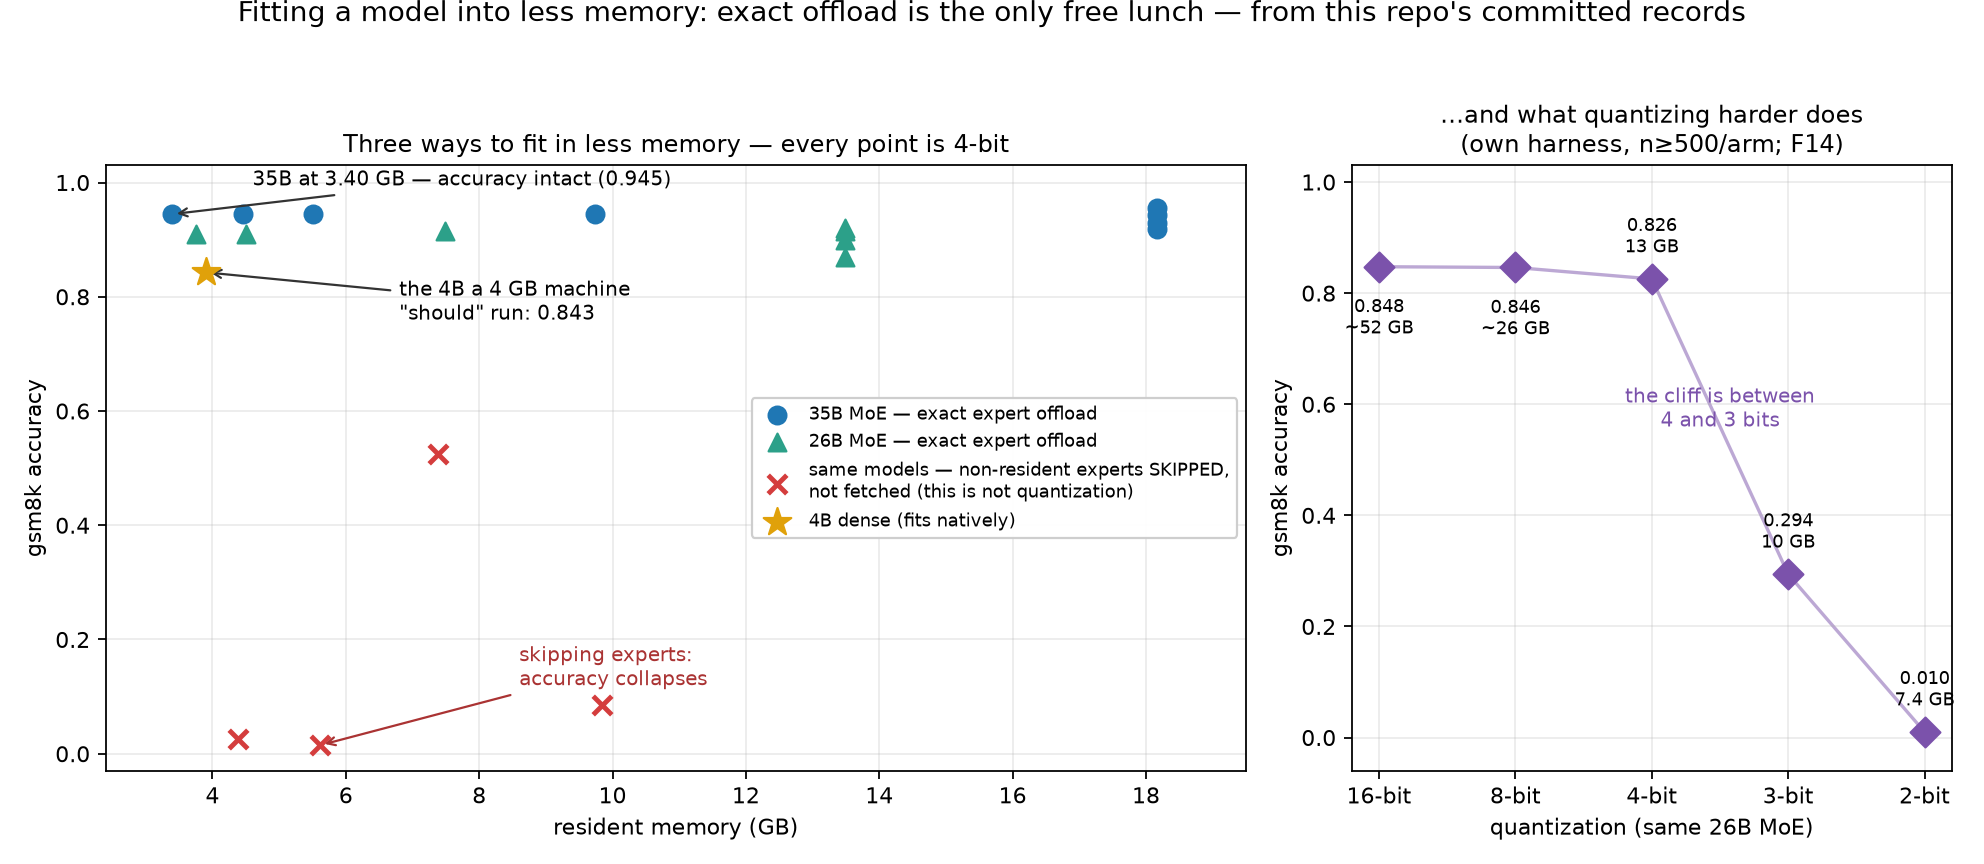
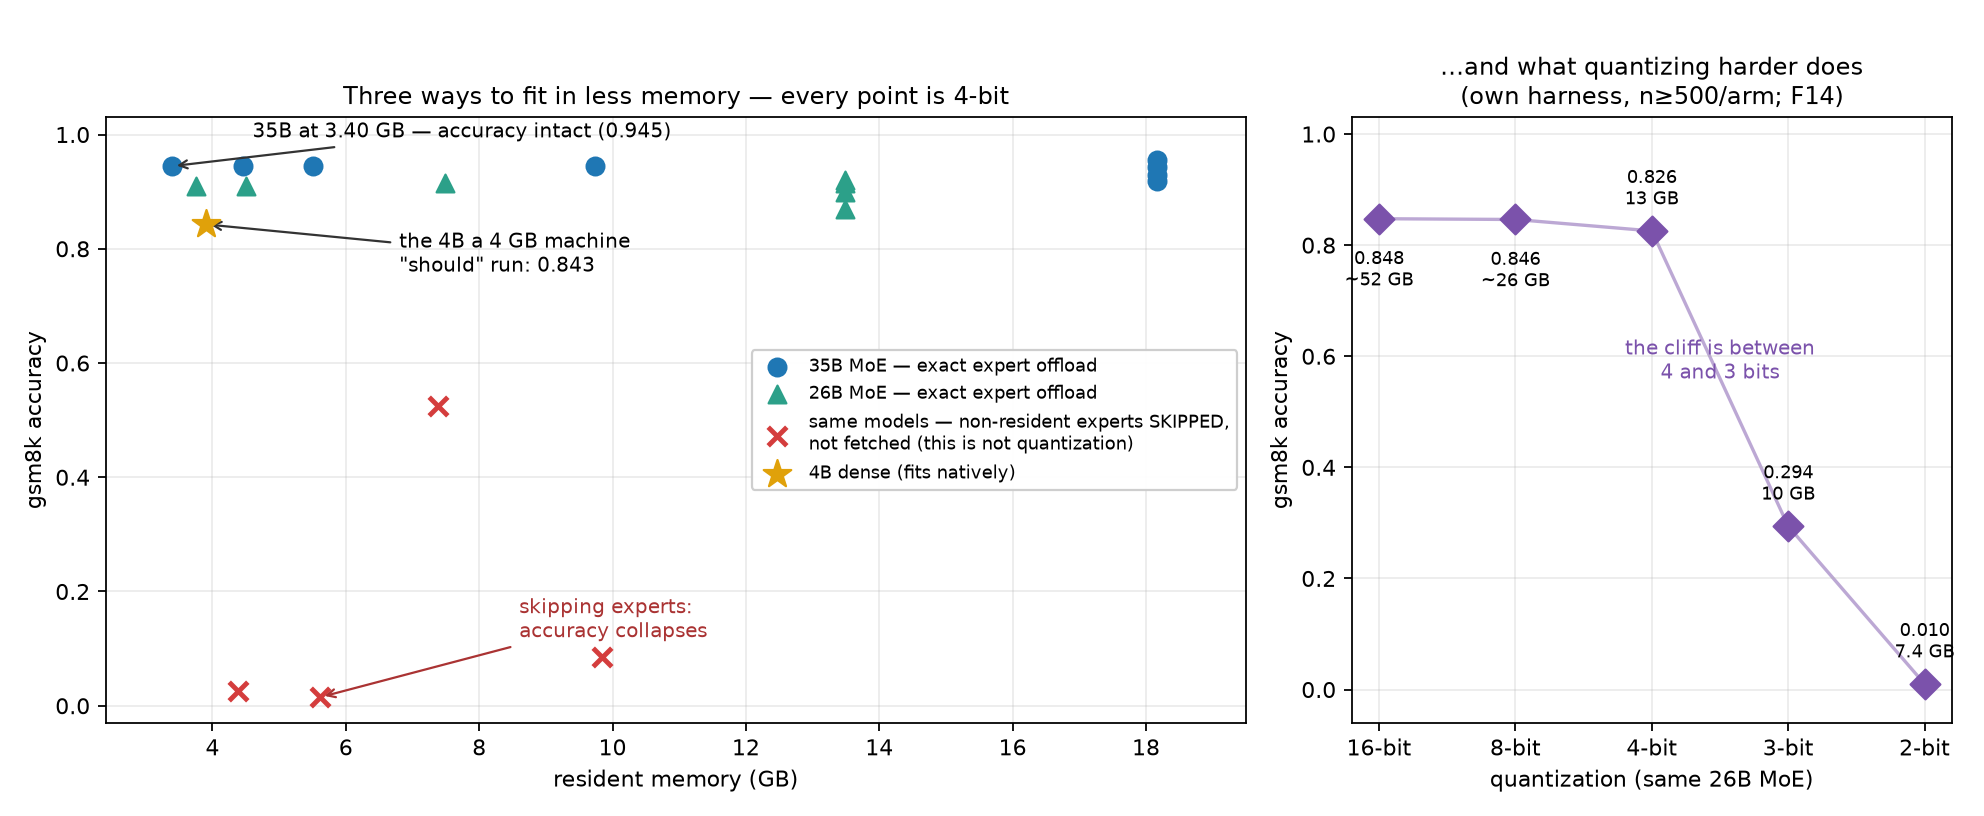
docs: descriptive card provenance ids, chart title trimmed
Card rows identify their source cell by task, strategy, and cap instead of
an opaque id, and the sources line in `clausius plan` names the kind of run.
The README no longer links to a planning file. The frontier chart's outer title is removed;
the panel titles carry the content. Test fixtures renamed to match.

diff --git a/tests/test_measure_cards.py b/tests/test_measure_cards.py
@@ -10,11 +10,11 @@ def _manifest(path, n, correct_n, truncated_n):
 
 
 def test_row_reduces_the_manifest(tmp_path):
-    m = tmp_path / "s0sig-math.jsonl"; _manifest(m, 20, 15, 4)
+    m = tmp_path / "greedy-math-2048.jsonl"; _manifest(m, 20, 15, 4)
     r = row_from_manifest(m, model="m", task="math500-l5", strategy="greedy", cap=2048, program="t")
     assert r["n"] == 20 and r["accuracy"] == 0.75 and r["truncation"] == 0.2
     lo, hi = r["ci95"]; assert lo < 0.75 < hi
-    assert r["wall_s"] == 19.5 and r["tokens_out"] == 110 and r["source"]["cell"] == "s0sig-math"
+    assert r["wall_s"] == 19.5 and r["tokens_out"] == 110 and r["source"]["cell"] == "greedy-math-2048"
 
 
 def test_partial_cells_are_not_rows(tmp_path):
@@ -25,7 +25,7 @@ def test_partial_cells_are_not_rows(tmp_path):
 
 
 def test_rows_from_dir_uses_the_decoder(tmp_path):
-    _manifest(tmp_path / "s0-a.jsonl", 4, 2, 0); _manifest(tmp_path / "junk.jsonl", 4, 2, 0)
-    dec = lambda name: ("task-a", "greedy", False, None, None, 512) if name == "s0-a" else None  # noqa: E731
+    _manifest(tmp_path / "greedy-a.jsonl", 4, 2, 0); _manifest(tmp_path / "junk.jsonl", 4, 2, 0)
+    dec = lambda name: ("task-a", "greedy", False, None, None, 512) if name == "greedy-a" else None  # noqa: E731
     rows = rows_from_dir(tmp_path, dec, model="m", program="t")
-    assert [r["source"]["cell"] for r in rows] == ["s0-a"] and rows[0]["cap"] == 512
+    assert [r["source"]["cell"] for r in rows] == ["greedy-a"] and rows[0]["cap"] == 512

diff --git a/README.md b/README.md
@@ -87,7 +87,7 @@ The card currently holds 37 rows across four Qwen models on gsm8k, MATH-500 L5, 
 
 ## Where this is going
 
-v0.2 adds report cards — the benchmarks official model cards report, re-measured at the configurations people actually deploy — and makes every measurement a module on one statistical core, so later measurements (agent trajectories, stopping behavior) arrive as rows on the same card rather than as new tools. The plan and its sequencing are in [ROADMAP.md](https://github.com/beatakouchnir/clausius/blob/main/ROADMAP.md).
+v0.2 adds report cards — the benchmarks official model cards report, re-measured at the configurations people actually deploy — and makes every measurement a module on one statistical core, so later measurements (agent trajectories, stopping behavior) arrive as rows on the same card rather than as new tools.
 
 **Sibling.** [boyle](https://github.com/beatakouchnir/boyle) runs the model you want at the memory pressure you specify — budgeted MoE inference with speed forecasts before you download. Its `predict` cites this repository's measured accuracy.
 
